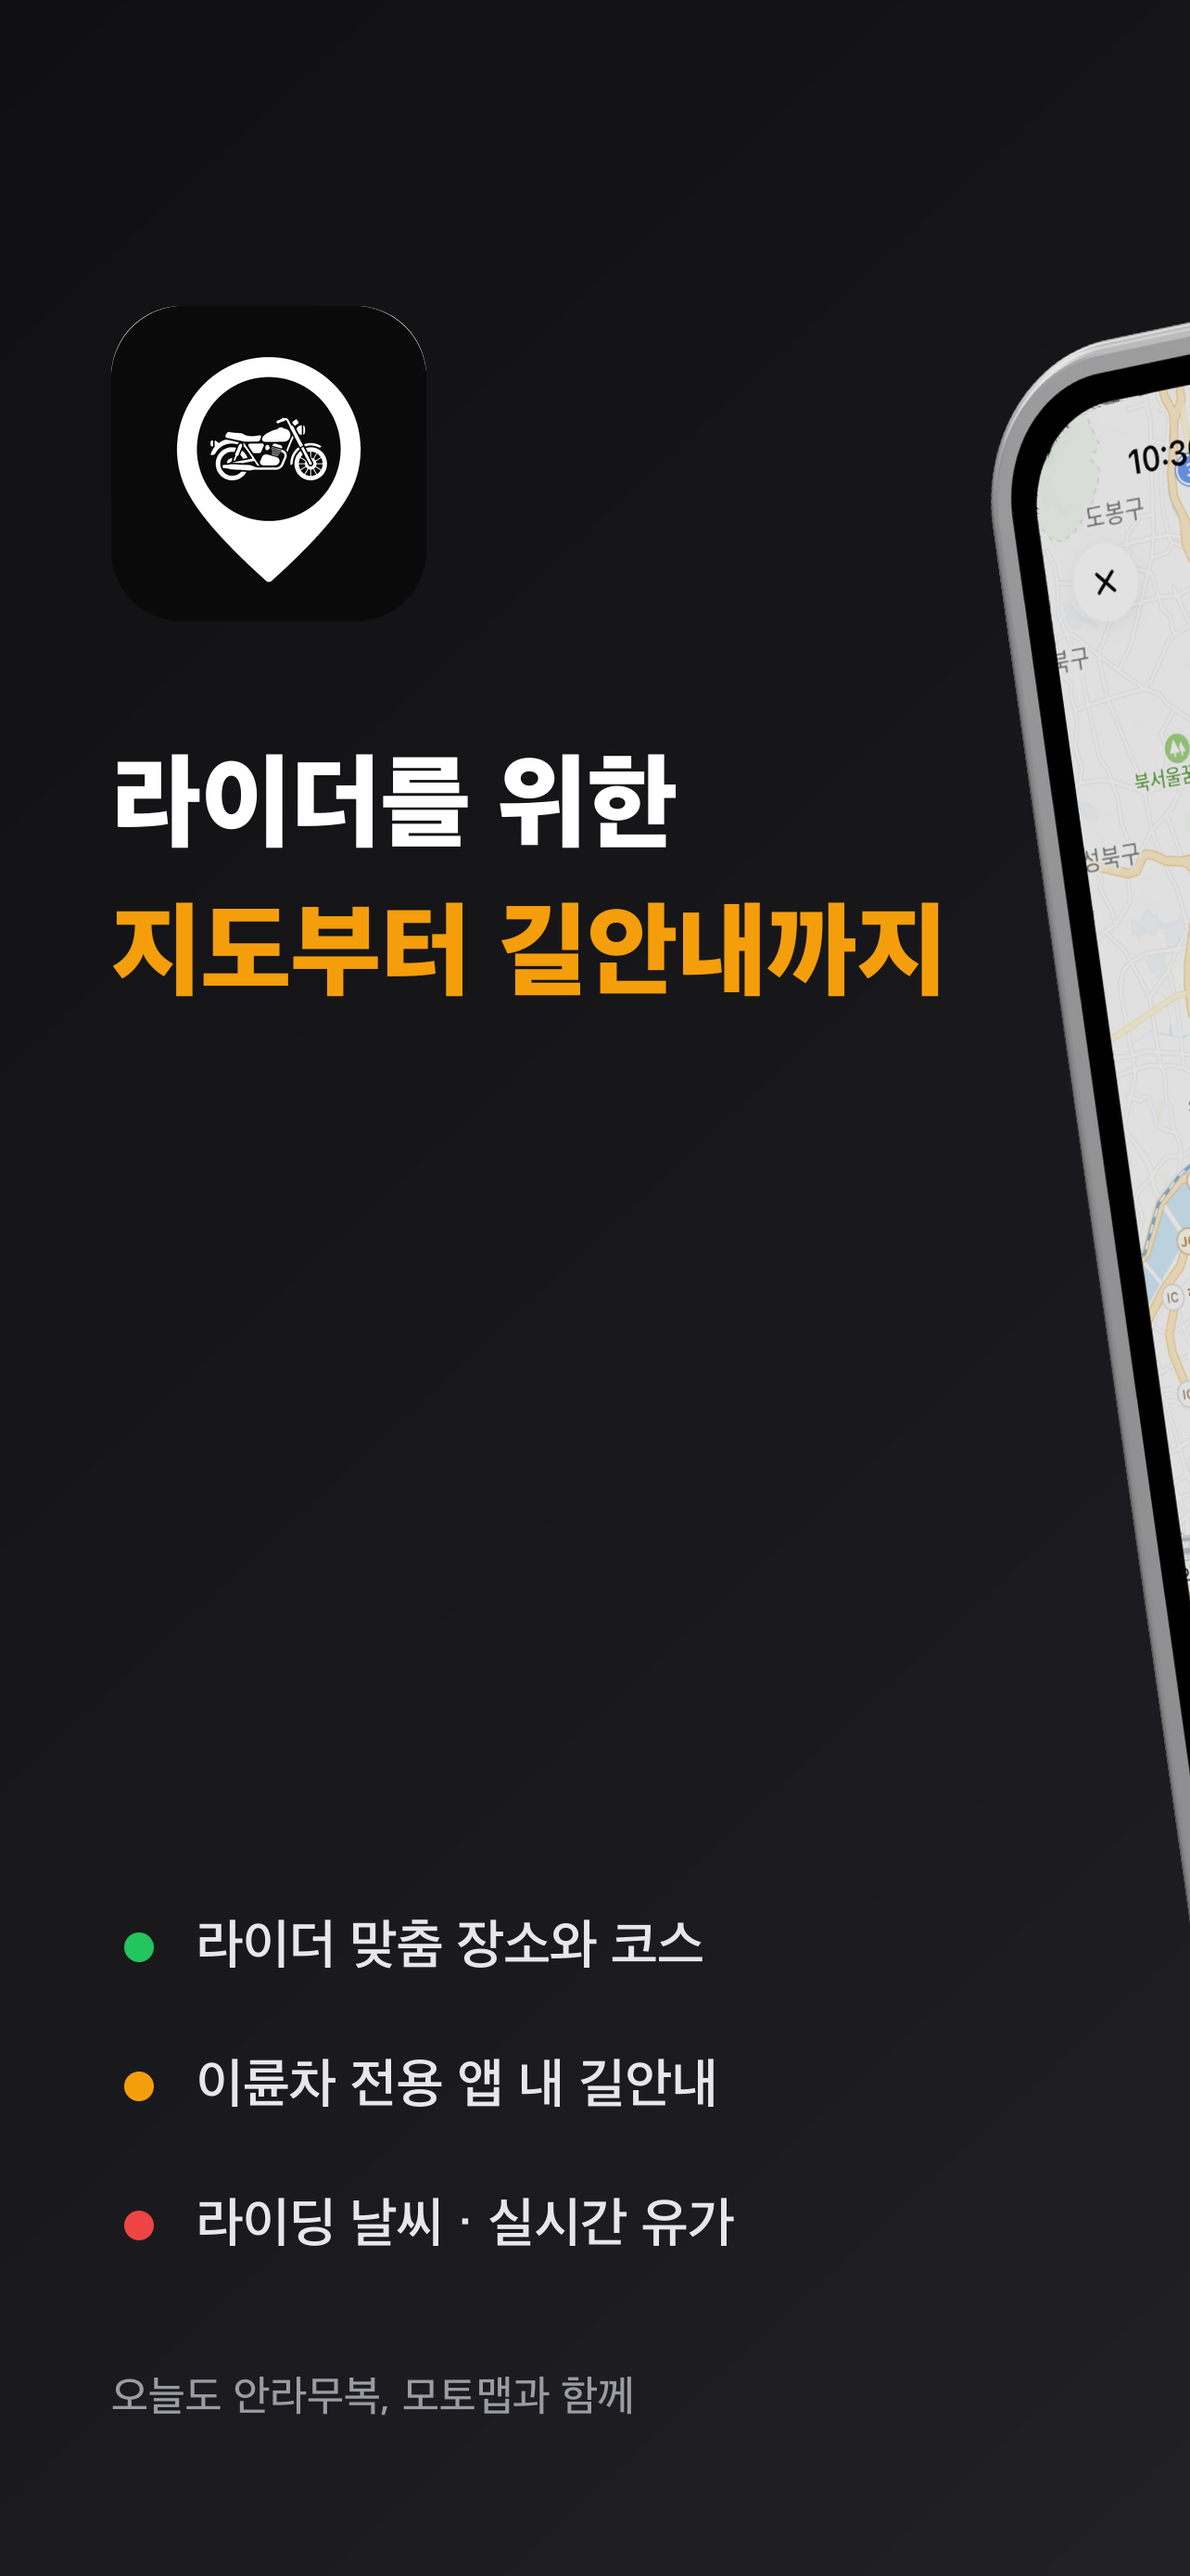
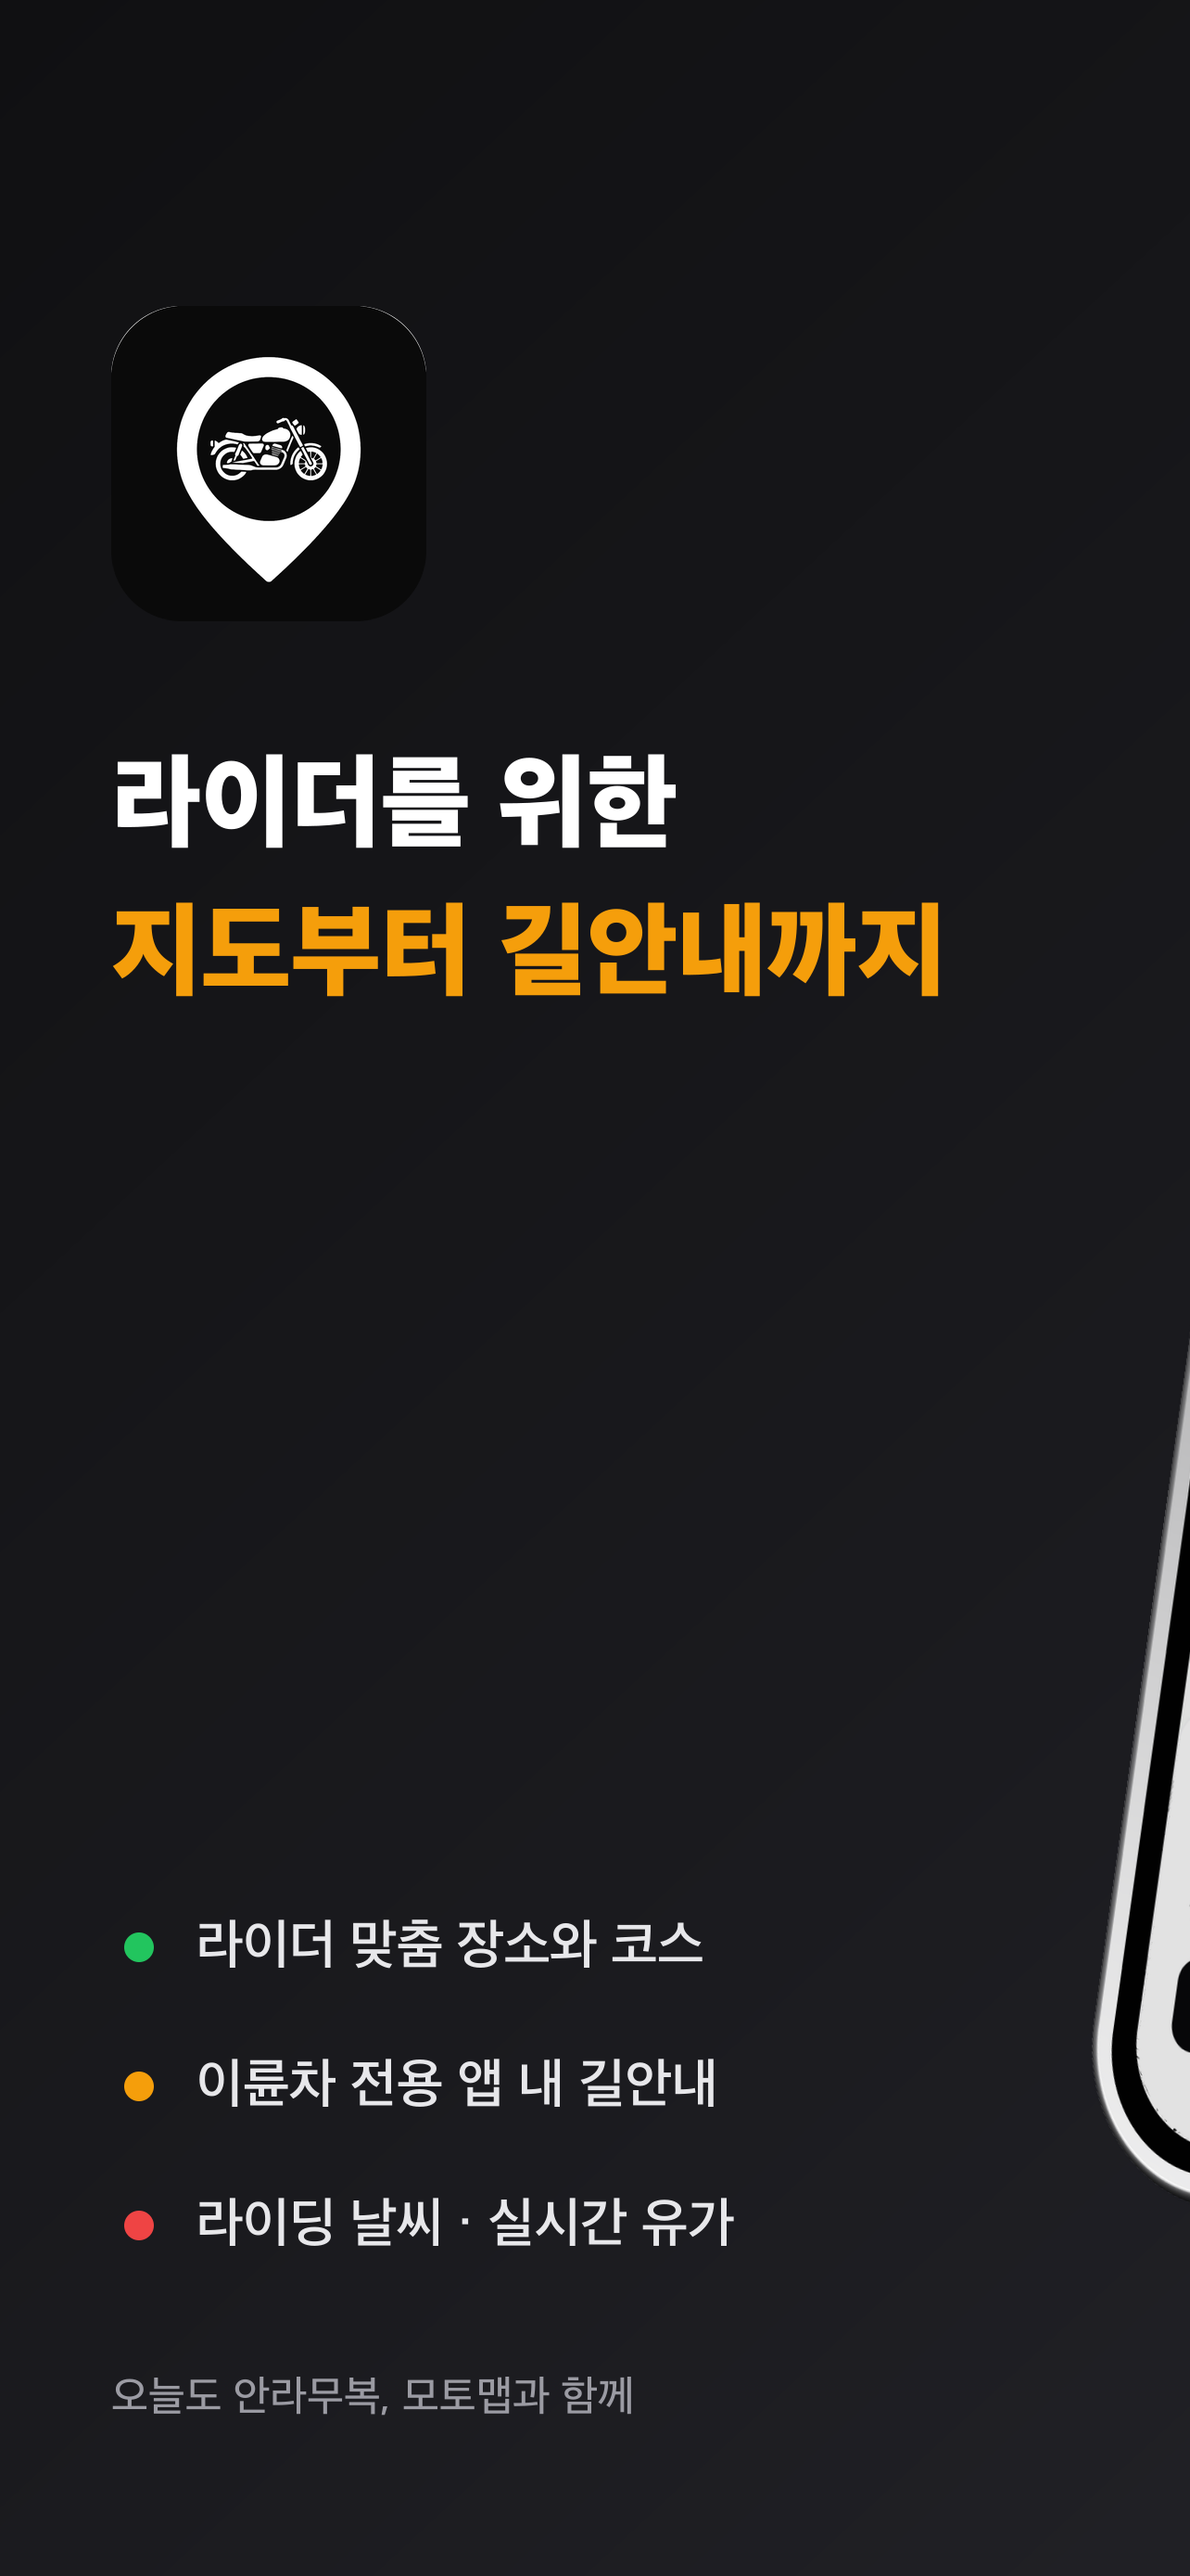
docs: hero phone quality pass — clearcoat metal, 2100px render, bottom-left peek
Physical materials with clearcoat on body and buttons, more bevel
segments, a key/rim light pair for the specular band, a faint glass
streak on the screen, and a larger render canvas. Tilt flipped back
to clockwise so the bottom-left corner is what rests on page 1.

Changed region(s): [[0.81, 0.1238, 1.0, 0.8668]]

diff --git a/scripts/hero-phone-render/render.html b/scripts/hero-phone-render/render.html
@@ -10,7 +10,7 @@
   import * as THREE from 'three';
   import { RoomEnvironment } from 'three/addons/environments/RoomEnvironment.js';
 
-  const W = 1700, H = 3400; // 출력 캔버스 (투명 배경)
+  const W = 2100, H = 4200; // 출력 캔버스 (투명 배경)
   const status = document.getElementById('status');
 
   // ── 지오메트리 도우미: 라운드 사각 Shape ─────────────────────────────
@@ -42,9 +42,9 @@
   const body = new THREE.Mesh(
     new THREE.ExtrudeGeometry(roundedRect(PW, PH, PR), {
       depth: PD, bevelEnabled: true, bevelThickness: 1.4, bevelSize: 1.2,
-      bevelSegments: 8, curveSegments: 48,
+      bevelSegments: 16, curveSegments: 72,
     }),
-    new THREE.MeshStandardMaterial({ color: 0xf0f0f2, metalness: 0.75, roughness: 0.32 }),
+    new THREE.MeshPhysicalMaterial({ color: 0xf0f0f2, metalness: 0.85, roughness: 0.26, clearcoat: 0.8, clearcoatRoughness: 0.22 }),
   );
   body.position.z = -PD - 1.4; // 전면(베벨 끝)이 z≈0
   scene.add(body);
@@ -89,8 +89,35 @@
   island.position.set(0, scrH / 2 - 4.6, FRONT + 0.04);
   scene.add(island);
 
+  // ── 화면 유리 반사 — 대각선으로 스치는 아주 옅은 하이라이트 ─────────
+  {
+    const c = document.createElement('canvas');
+    c.width = c.height = 512;
+    const g = c.getContext('2d');
+    const grad = g.createLinearGradient(0, 512, 512, 0);
+    grad.addColorStop(0.0, 'rgba(255,255,255,0)');
+    grad.addColorStop(0.42, 'rgba(255,255,255,0)');
+    grad.addColorStop(0.5, 'rgba(255,255,255,0.10)');
+    grad.addColorStop(0.58, 'rgba(255,255,255,0)');
+    grad.addColorStop(1.0, 'rgba(255,255,255,0)');
+    g.fillStyle = grad;
+    g.fillRect(0, 0, 512, 512);
+    const glassTex = new THREE.CanvasTexture(c);
+    const glass = new THREE.Mesh(
+      new THREE.ShapeGeometry(roundedRect(scrW, scrH, PR - 3.2), 48),
+      new THREE.MeshBasicMaterial({ map: glassTex, transparent: true, depthWrite: false }),
+    );
+    const uv = glass.geometry.attributes.uv;
+    for (let i = 0; i < uv.count; i++) {
+      uv.setXY(i, uv.getX(i) / scrW + 0.5, uv.getY(i) / scrH + 0.5);
+    }
+    uv.needsUpdate = true;
+    glass.position.z = FRONT + 0.05;
+    scene.add(glass);
+  }
+
   // ── 측면 버튼 (오른쪽 전원, 왼쪽 음량·액션) ──────────────────────────
-  const btnMat = new THREE.MeshStandardMaterial({ color: 0xe9e9ec, metalness: 0.8, roughness: 0.3 });
+  const btnMat = new THREE.MeshPhysicalMaterial({ color: 0xe9e9ec, metalness: 0.85, roughness: 0.26, clearcoat: 0.6 });
   function sideButton(x, y, len) {
     const b = new THREE.Mesh(new THREE.BoxGeometry(1.6, len, 2.4), btnMat);
     b.position.set(x, y, -PD / 2 - 1.4);
@@ -106,9 +133,11 @@
   cam.position.set(280, 8, 480);
   cam.lookAt(0, 0, -PD / 2);
 
-  const key = new THREE.DirectionalLight(0xffffff, 0.7);
-  key.position.set(150, 200, 300);
-  scene.add(key, new THREE.AmbientLight(0xffffff, 0.25));
+  const key = new THREE.DirectionalLight(0xffffff, 1.1);
+  key.position.set(320, 260, 220);
+  const rim = new THREE.DirectionalLight(0xffffff, 0.35);
+  rim.position.set(-200, -80, 260);
+  scene.add(key, rim, new THREE.AmbientLight(0xffffff, 0.2));
 
   renderer.render(scene, cam);
   status.textContent = 'rendered — saving…';
